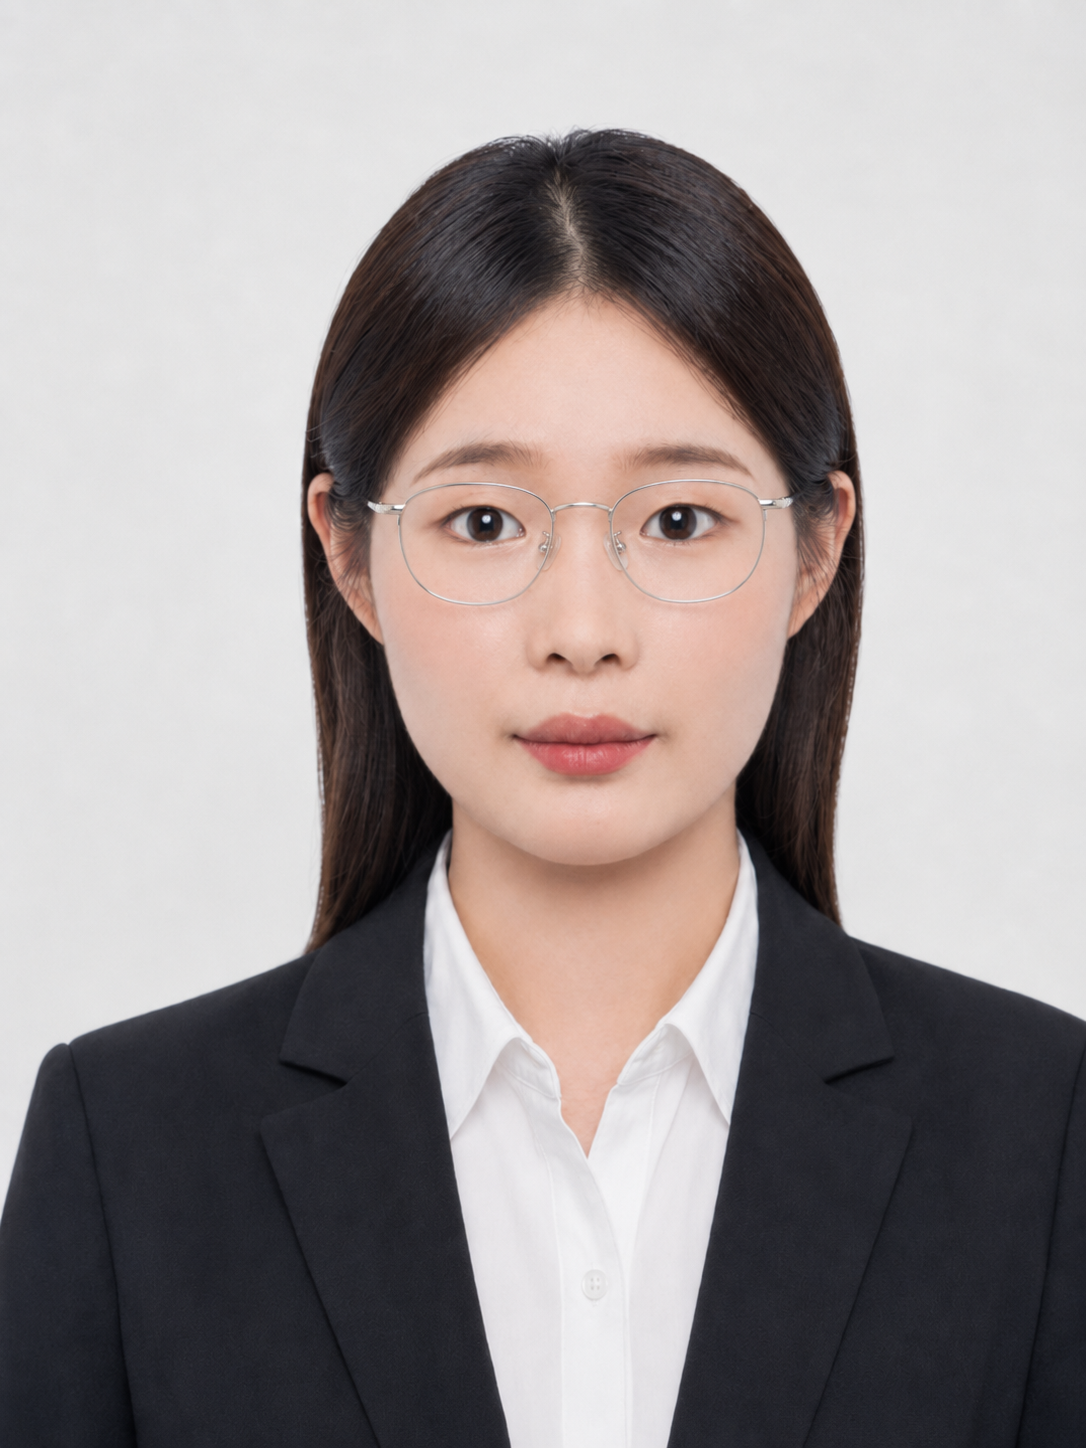
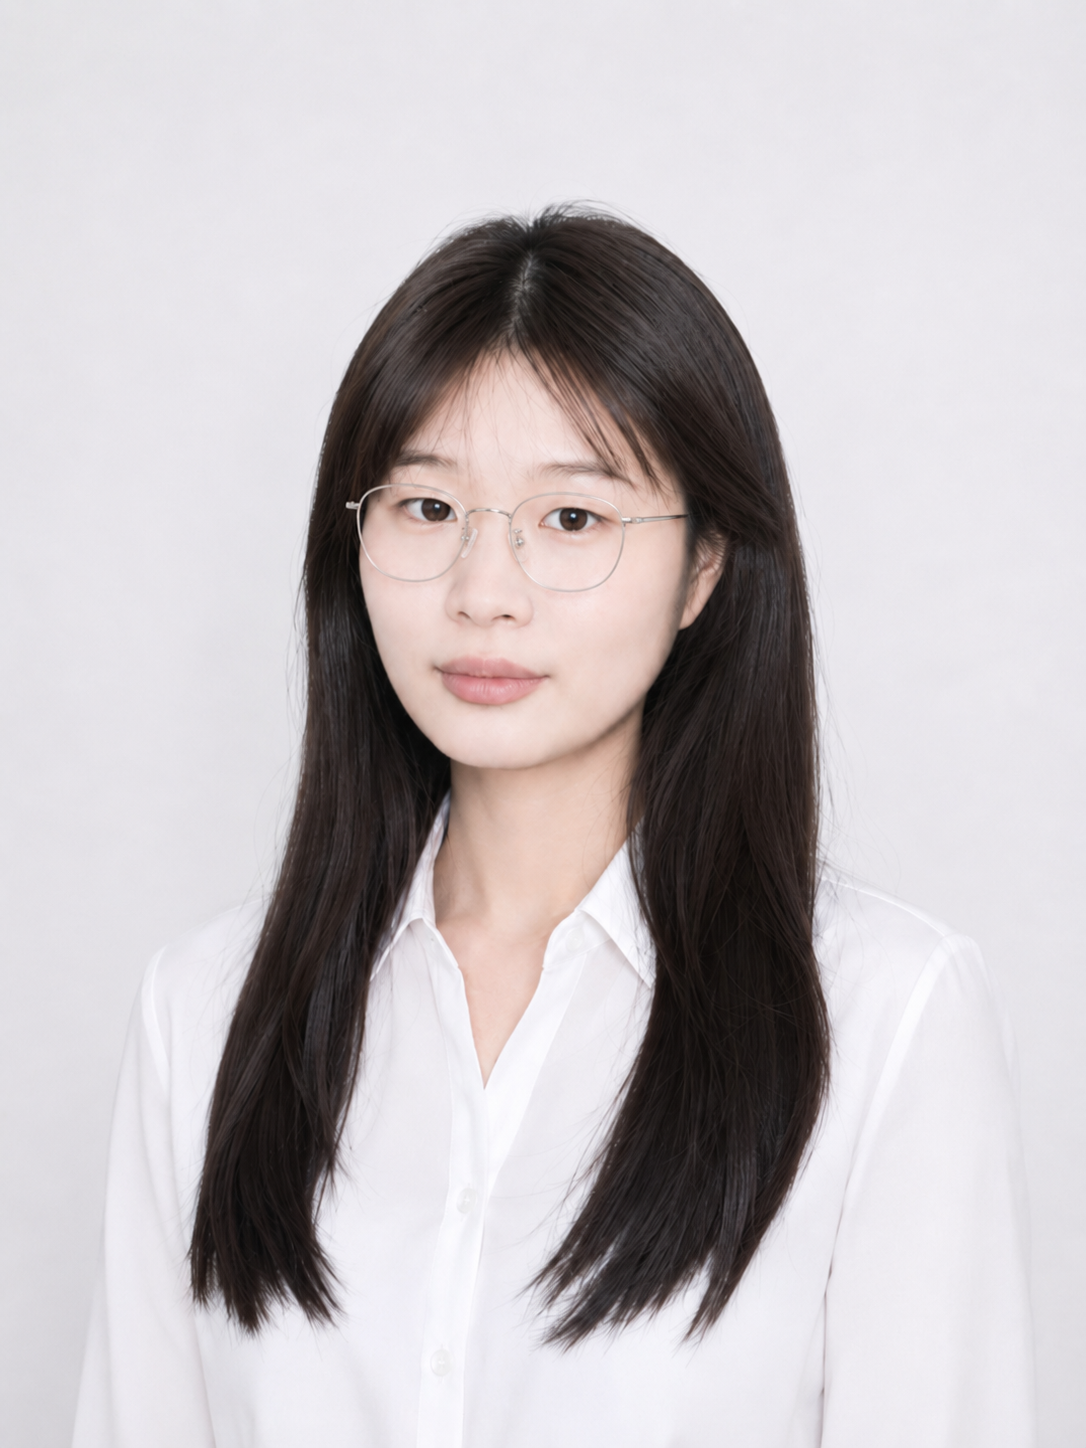
feat: update

diff --git a/frontend/src/features/resume/data.ts b/frontend/src/features/resume/data.ts
@@ -50,32 +50,33 @@ export interface ResumeData {
 
 export const resumeData: ResumeData = {
   basic: {
-    name: "简历本",
-    meta: ["女", "25岁", "3年经验", "本科", "130 7234 9258", "minhansu508@gmail.com"],
-    position: "WEB前端开发",
+    name: "苏敏晗",
+    meta: ["女", "25岁", "3年经验", "130 7234 9258", "minhansu508@gmail.com"],
     status: "目前在职，考虑合适新机会",
+    position: "WEB 前端开发",
     avatar: "/resume-avatar.png",
   },
   selfEvaluation: {
     bullets: [
       {
-        label: "项目经验",
+        label: "丰富的项目经验",
         content:
-          "亿级PV Hybrid App开发经验，精通React、TS、Vue2、NodeJS，熟悉Hybrid开发与组件库建设",
+          "3 年腾讯一线开发经验，参与广告创意产品、AI 客服、数字人直播等多个中大型项目的前端开发与交付，具备从 0 到 1 及持续迭代的完整项目经验",
       },
       {
-        label: "个性特点",
+        label: "全面的技术能力",
         content:
-          "重视用户体验，善于反思与迭代，具备主人翁意识，能够推动并配合团队内各角色执行任务，高质量完成交付",
+          "熟练掌握 React、Vue、TypeScript 等主流前端技术栈，具备前端架构设计、性能优化、组件化开发及工程化建设能力，能独立承担复杂业务模块",
       },
       {
-        label: "用户体验",
+        label: "专业的体验视角",
         content:
-          "有带领小团队承接复杂项目落地经验（包括跨多部门协同输出技术方案、任务拆分、进度管理等）",
+          "重视用户体验与交互细节，善于从产品视角出发审视前端实现，结合数据分析持续优化页面性能与可用性，追求高品质交付",
       },
       {
-        label: "技术优化",
-        content: "擅长性能优化，提升开发效率，确保项目稳定运行",
+        label: "落地的 AI 实践",
+        content:
+          "D2C方案及链路落地，独立开发基于知识库的自研工具，实现AI内容生成与发布",
       },
     ],
   },
@@ -84,7 +85,7 @@ export const resumeData: ResumeData = {
       period: "2019/09 - 2023/06",
       school: "重庆邮电大学",
       degree: "本科",
-      major: "",
+      major: "电子商务",
     },
   ],
   works: [
@@ -116,8 +117,8 @@ export const resumeData: ResumeData = {
   ],
   projects: [
     {
-      period: "2023/02 - 2024/10",
-      name: "抖音XXX业务",
+      period: "2023/08 - 至今",
+      name: "腾讯广告妙思——营销内容 AIGC 创作平台",
       role: "技术开发",
       background:
         "技术栈：Lynx。抖音XX是抖音商城的本地化线上超市业务，基于自营云仓运营。自11月初在部分城市试运营，现已全量开放，入口位于抖音内搜索。",
@@ -142,42 +143,42 @@ export const resumeData: ResumeData = {
       achievement: "XX业务复购率高，购买门槛低，有效吸引新用户，助力供应链云仓发展。",
     },
     {
-      period: "2022/10 - 2024/12",
-      name: "XXX代码规范建设",
-      role: "项目负责人",
-      background:
-        "为提升电商部门代码质量和规范性，自研并整合常用Lint规则，解决业务痛点。",
-      duties: [
-        {
-          label: "项目职责",
-          content:
-            "自研两个ESLint规则：强制catch语句错误上报、确保组件命名一致性。",
-        },
-        {
-          label: "",
-          content: "吸纳社区优秀Lint规则，推动Lint规范在各业务项目中落地。",
-        },
-      ],
-      achievement: "将常见代码问题暴露于开发阶段，显著节约Code Review时间。",
-    },
-    {
-      period: "2022/08 - 2023/02",
-      name: "抖音XX业务",
+      period: "2025/05 - 至今",
+      name: "腾讯广告智能客服系统",
       role: "技术开发",
       background:
-        "抖音XXX业务是字节跳动在内容平台电商化方面的探索，定位为年轻人的潮流时尚电商平台，通过内容种草引导用户下单转化。",
+        "面向腾讯广告投放业务建设 AI 智能客服平台，覆盖智能问答、账户诊断、投放复盘、素材审核查询、人工客服接入等场景。项目融合大模型对话、多 Agent 协作与深度思考链路，前端侧重点解决 流式对话体验、复杂 AI 内容渲染、多 Agent 动态交互、业务组件复用 等问题。并支持 嵌入式侧边栏、独立站、小程序 等多端形态接入。",
       duties: [
         {
-          label: "内容生态建设",
-          content: "负责创作者中心、直播间等业务的开发与优化，提升内容创作与互动体验。",
+          label: "AI 流式对话体验建设",
+          content:
+            "设计并实现 SSE 流式通信与增量渲染机制，处理消息分片、生成中状态、异常中断、重试兜底、自动滚动等场景，优化 AI 对话从“等待结果”到“实时生成”的体验，首 token 响应时间控制在 200ms 内。",
         },
         {
-          label: "营销生态建设",
-          content: "推动热点营销等营销生态建设，增强平台吸引力和用户转化率。",
+          label:"复杂内容渲染与性能优化",
+          content:"建设 AI 消息渲染层，支持 Markdown、代码块、表格等多类型内容；针对长文本输出、频繁增量更新、复杂图表渲染进行拆分渲染与按需加载优化，提升对话内容稳定性与阅读体验。"
         },
+        {
+          label: "多 Agent 交互抽象",
+          content: "围绕账户分析、素材生成、投放复盘、起量诊断等业务 Agent，抽象动态表单、任务卡片、结果卡片、意图路由等通用能力，实现 Agent 场景的配置化接入，减少重复开发。",
+        },
+        {
+          label: "负责多端 AI 客服形态建设",
+          content: "围绕嵌入式侧边栏、独立站、小程序等不同使用场景，抽象统一的对话内核与多端渲染适配方案，处理不同端在容器尺寸、路由跳转、登录态、交互手势、样式隔离等方面的差异，保障 AI 客服能力在多业务入口中的一致体验。"
+        },
+        {
+          label: "Monorepo 组件工程化沉淀",
+          content: "基于 monorepo 管理 AI 客服前端公共能力，将多端共用的 UI 组件、Agent 卡片渲染逻辑拆分为独立 packages，支持按需引用、独立构建与版本管理；沉淀包含快捷键的Agent富文本输入、虚拟滚动、动效容器等组件，提升嵌入式侧边栏、独立站、小程序等多端场景下的代码复用与交付效率。",
+        }
       ],
-      achievement: "为字节系业务在内容平台电商化方面积累了宝贵经验，助力业务发展。",
+      // achievement: "⚡ 流式响应体验优化：通过 SSE + 增量渲染优化，首 Token 响应时间 < 200ms，用户等待感知降低 60%。组件库复用率提升：抽离公共 UI 组件库，跨项目复用率达 80%，新需求开发效率提升 40%",
     },
+    {
+      period: "2023/09 - 2024/12",
+      name: "腾讯广告官网",
+      role: "项目负责人",
+      background: "为提升腾讯广告品牌传达，更新官网设计与内容。"
+    }
   ],
-  skills: ["react", "vue", "html", "css", "javascript", "nodejs"],
+  skills: ["react", "html", "css", "javascript", "typescript", "nodejs", "小程序"],
 };

diff --git a/frontend/src/features/resume/pages/ResumePage.tsx b/frontend/src/features/resume/pages/ResumePage.tsx
@@ -219,6 +219,18 @@ const ResumePage: React.FC = () => {
                 })
               }
             />
+             <Editable
+              as="div"
+              className="resume-header__position"
+              editing={editing}
+              value={basic.position}
+              onChange={(v) =>
+                update((d) => {
+                  d.basic.position = v;
+                  return d;
+                })
+              }
+            />
             <div className="resume-header__meta">
               {basic.meta.map((item, index) => (
                 <React.Fragment key={index}>
@@ -239,18 +251,6 @@ const ResumePage: React.FC = () => {
                 </React.Fragment>
               ))}
             </div>
-            <Editable
-              as="div"
-              className="resume-header__position"
-              editing={editing}
-              value={basic.position}
-              onChange={(v) =>
-                update((d) => {
-                  d.basic.position = v;
-                  return d;
-                })
-              }
-            />
             <Editable
               as="div"
               className="resume-header__status"
@@ -446,7 +446,7 @@ const ResumePage: React.FC = () => {
                 }
               />
             </div>
-            <div className="resume-block__subtitle">职责业绩：</div>
+            {/* <div className="resume-block__subtitle">职责业绩：</div> */}
             <ul className="resume-bullet-list">
               {work.duties.map((duty, di) => (
                 <li key={di}>

diff --git a/frontend/src/features/resume/styles/ResumePage.scss b/frontend/src/features/resume/styles/ResumePage.scss
@@ -3,8 +3,9 @@ $color-bg: #f5f5f5;
 $color-paper: #ffffff;
 $color-text: #222222;
 $color-text-sub: #555555;
-$color-accent: #8b1f24; // 暗红色
-$color-divider: #8b1f24;
+$color-desc: #999999;
+$color-accent: #31467b; // 暗红色
+$color-divider: #bfc9e4;
 $color-meta-bg: #f3f3f3;
 
 .resume-page {
@@ -51,28 +52,23 @@ $color-meta-bg: #f3f3f3;
     display: flex;
     flex-wrap: wrap;
     align-items: center;
-    background: $color-meta-bg;
-    padding: 8px 14px;
     font-size: 14px;
     color: $color-text;
-    margin-bottom: 8px;
     gap: 8px;
   }
 
   &__divider {
-    color: #bbb;
+    color: #ddd;
   }
 
   &__position {
-    background: $color-meta-bg;
-    padding: 6px 14px;
+     margin-bottom: 8px;
     font-size: 14px;
-    margin-bottom: 12px;
     display: inline-block;
   }
 
   &__status {
-    color: $color-text;
+    color: $color-desc;
     font-size: 14px;
     margin-top: 4px;
   }
@@ -80,8 +76,8 @@ $color-meta-bg: #f3f3f3;
   &__avatar {
     position: relative;
     flex-shrink: 0;
-    width: 100px;
-    height: 130px;
+    width: 110px;
+    height: 140px;
     background: #e8e8e8;
     overflow: hidden;
     display: flex;
